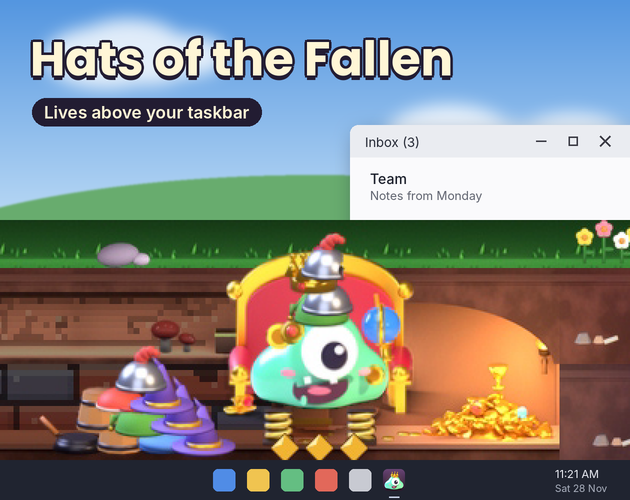
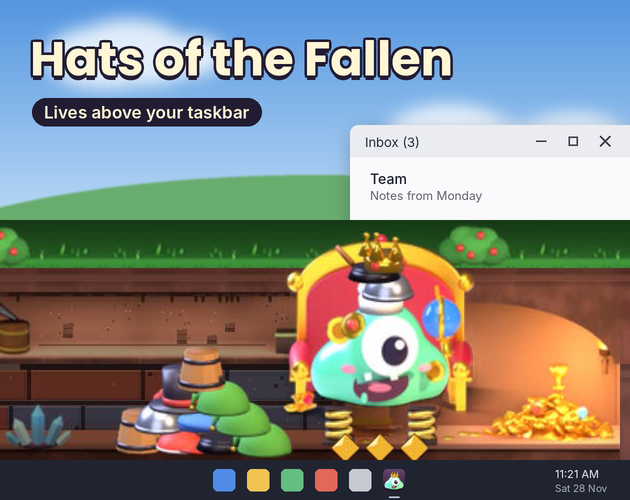
Hats itch: omslag v6 GESLAAGD plek 2,0 is nu de omslag, nakeuring Daan #358; winkeltekst 200 px (#314, #339)
Claude-Session: https://claude.ai/code/session_01RMWUyj4bs4wihXmXG5uc2K

diff --git a/producten/steam-hol/itch/PAGINA.md b/producten/steam-hol/itch/PAGINA.md
@@ -24,7 +24,7 @@ Lat: Rusty's Retirement en Spirit City: Lofi Sessions (`organisatie/lat/hats.md`
 | Custom noun | leeg |
 | Community | Comments aan (vragen van spelers komen dan bij ons binnen; triage via skill `triage`) |
 | Visibility | **Draft** tot het ja van Thijs |
-| Cover image | `omslag-630x500.png` (= v5, blinde test GESLAAGD plek 1,0). Opvolger v6 of v7 (hol op ware maat, Daan #348 M1) in de blinde test; de geslaagde wordt de omslag na een ja van Daan |
+| Cover image | `omslag-630x500.png`. Nu v6 (hol op ware maat uit 46ca6e9, Daan #348 M1), blinde test GESLAAGD plek 2,0; keuring Daan |
 | Screenshots | `schermen/1-*.png` tot en met `schermen/4-*.png`, in die volgorde (ronde 3, 28 nov: één overzicht en drie grote spelmomenten, Daan #348) |
 | Trailer | leeg (er is nog geen trailer) |
 
@@ -72,4 +72,4 @@ v1 (hol 1,75x), v2 (ware grootte, groot logo) en v3 (1,25x): alle drie **NIET GE
 Zelfde opbouw, titel en venster als v5, maar het hol komt uit een nieuwe eigen film van main 46ca6e9 (na de fijne korrel ca6f928 en de knoppen 52507cc) op `hoogte=240`, dus op ware maat: `bron-omslag6-240-1338s.png`, x 820 tot 1450 (hoedenberg, Gloop met kroon op de troon, schat), niet meer 1,5x opgeschaald.
 - `omslag-v6-630x500.png`: alleen het nieuwe hol.
 - `omslag-v7-630x500.png`: ook de titel met de gouden rand van het houten bord uit het spel (K1), vlak, geen 3D.
-Blinde test: set `hats-itch-omslag` ronde 3. Uitslag volgt in `organisatie/blindtest/uitslag/`.
+**Uitslag (Gemini flash-lite, GEZIEN, `organisatie/blindtest/uitslag/hats-itch-omslag-2026-11-28-0654.md`): v6 GESLAAGD plek 2,0 (ronde 1 plek 1, ronde 2 plek 3), v7 GESLAAGD plek 2,0 (plek 3 en plek 1).** v6: "It literally shows a screenshot of it living right above the taskbar"; in de andere ronde "cartoon mascot art style looks a bit too cheap". De gouden rand van v7 hielp niet zichtbaar (één ronde "cluttered and messy"). **Keuze Sanne: v6 is nu `omslag-630x500.png`**: zelfde opbouw als v5 (die plek 1,0 haalde), alleen het hol scherp en op ware maat zoals Daan vroeg. Keuring: Daan.

diff --git a/berichten/sanne.md b/berichten/sanne.md
@@ -260,3 +260,6 @@ Webpagina's lees je met `curl` in Bash, nooit met WebFetch. WebFetch vraagt Thij
 
 Palet: ik zette `zacht` eerst standaard (jouw keuze), maar binnen één run gemeten kost de laag ±30 procent CPU (wissel=palet +41, placebo +11, GEZIEN, `platformen/steam/data/cpu-duur/palet/`). Dat is boven de poort van 20 procent in `platformen/steam/balans.md`, en de blinde test zag geen verschil. Dus staat `vol` weer standaard. Zachter kan wel zonder extra kosten als het in de kunst en de lichtkaart zelf zit (Mila's B doet dat al voor de figuren). Wil je dat ik de grond (lichtkaart, steen, aarde) zelf gedempter maak, zeg het in #333; dan doe ik dat als volgende stap.
 Webpagina's lees je met `curl` in Bash, nooit met WebFetch. WebFetch vraagt Thijs om toestemming en dan staat alles stil.
+
+## 28 nov 2026 ±07:00 NL, logboek Sanne
+#314: Daan #348 verwerkt: eigen film 46ca6e9 op 240 px, omslag v6 (hol op ware maat) GESLAAGD plek 2,0 en nu de omslag, vier nieuwe schermen (overzicht, reus met kroon, held naar Gloop, kaartje met Undo), icoon in elke taakbalk; nakeuring #358 (Daan). Winkeltekst r. 53 naar "200 pixels tall (right-click for 96, 120, 160 or 240)" (Olaf, Daan #339 M1).

diff --git a/ontwerp/steam/winkelpagina/teksten.md b/ontwerp/steam/winkelpagina/teksten.md
@@ -50,7 +50,7 @@ Waarom zo: zin 1 zegt wat en waar (Desktop Companion, voor de fest-keuring), zin
 >
 > [h2]Small, quiet and fair[/h2]
 > [list]
-> [*]Sits right above the taskbar, 120 pixels tall (right-click to switch to 96 or 160).
+> [*]Sits right above the taskbar, 200 pixels tall (right-click for 96, 120, 160 or 240).
 > [*]Light on your PC: it only redraws when something moves, about 10 times a second.
 > [*]Silent: no sound at all, so it never talks over your call.
 > [*]No daily rewards, no energy, no timers calling you back. Changed your mind? Every upgrade can be undone for all its gold back.
